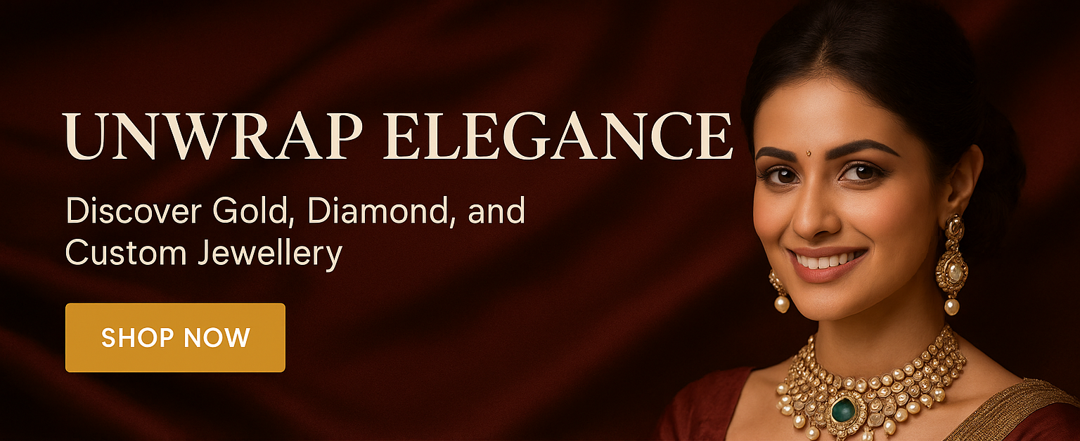
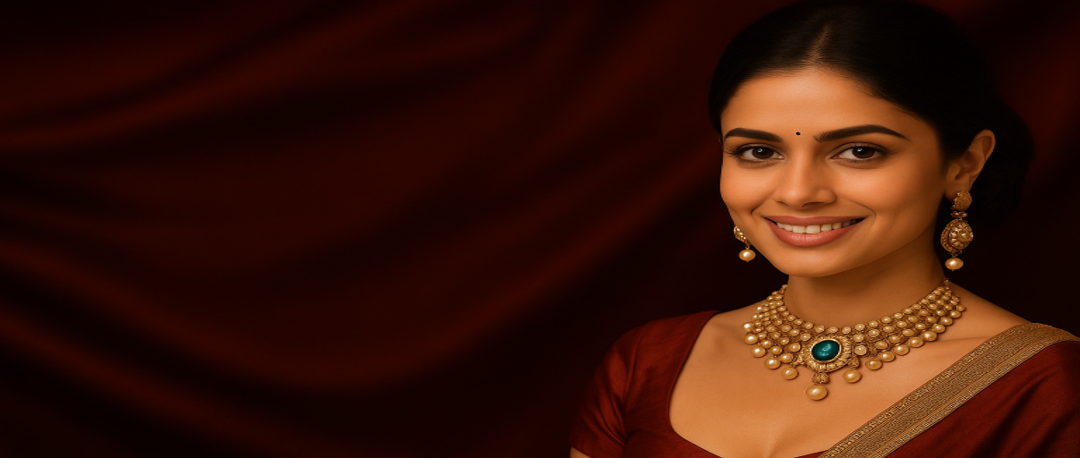
Refactored catalog page to use Suspense with useSearchParams

diff --git a/src/app/page.tsx b/src/app/page.tsx
@@ -11,13 +11,21 @@ import Image from 'next/image';
 
 export default function Home() {
   const [goldRate, setGoldRate] = useState("Loading...");
+  const [rateDate, setRateDate] = useState("");
 
   useEffect(() => {
     const rateRef = ref(db, 'Global SKU/Rates/Gold 22kt');
+    const dateRef = ref(db, 'Global SKU/Rates/Date');
+
     onValue(rateRef, (snapshot) => {
       const rate = snapshot.val();
       setGoldRate(rate);
     });
+
+    onValue(dateRef, (snapshot) => {
+      const date = snapshot.val();
+      setRateDate(date);
+  });
   }, []);
 
 
@@ -83,13 +91,19 @@ const productItems = [
   className={styles.heroImage}
 />
   <div className={styles.heroOverlay}>
-    <a href="/catalogue" className={styles.ctaBtn}>🛍 View Catalogue</a>
+<div className={styles.heroText}>
+      <h1 className={styles.heroHeading}>UNWRAP ELEGANCE</h1>
+      <p className={styles.heroSubheading}>
+        Discover Gold, Diamond and<br />Custom Jewellery
+      </p>
+      <a href="/catalogue" className={styles.ctaBtn}>🛍 View Catalogue</a>
+    </div>
   </div>
 </section>
 
       {/* Offer Banner */}
       <section className={styles.offerBanner}>
-        Todays Rate: <strong>{goldRate}</strong> | 🏦 <a href="https://api.whatsapp.com/send?phone=919023130944&text=Digital%20Gold" target="_blank">Book 22kt Digital Gold</a>
+        22kt Gold Rate ({rateDate}): <strong>{goldRate}</strong> | 🏦 <a href="https://api.whatsapp.com/send?phone=919023130944&text=Digital%20Gold" target="_blank">Book 22kt Digital Gold</a>
       </section>
 
       {/* Product Filters */}

diff --git a/src/app/page.module.css b/src/app/page.module.css
@@ -66,20 +66,37 @@
   overflow: hidden;
 }
 
+.heroText {
+  color: white;
+  text-align: center;
+  text-shadow: 1px 1px 3px rgba(0, 0, 0, 0.7);
+}
+
+.heroHeading {
+  font-size: 5rem;
+  font-weight: bold;
+  margin-bottom: 1rem;
+}
+
+.heroSubheading {
+  font-size: 2.5rem;
+  margin-bottom: 2rem;
+}
+
 .heroImage {
   width: 100%;
-  height: auto; /* Changed from 100% to auto for better aspect ratio */
-  object-fit: cover; /* Changed from fill to cover to avoid distortion */
+  height: auto;
+  object-fit: cover;
 }
 
 .heroOverlay {
   position: absolute;
-  top: 76%;
-  left: 16%;
+  top: 50%;
+  left: 30%;
   transform: translate(-50%, -50%);
   z-index: 2;
   text-align: center;
-  width: 90%;
+  width: 100%;
 }
 
 .ctaBtn {
@@ -90,9 +107,7 @@
   text-decoration: none;
   font-size: 1.5rem;
   display: inline-block;
-  max-width: 100%;
 }
-
 
 .offerBanner {
   background: #fff3cd;
